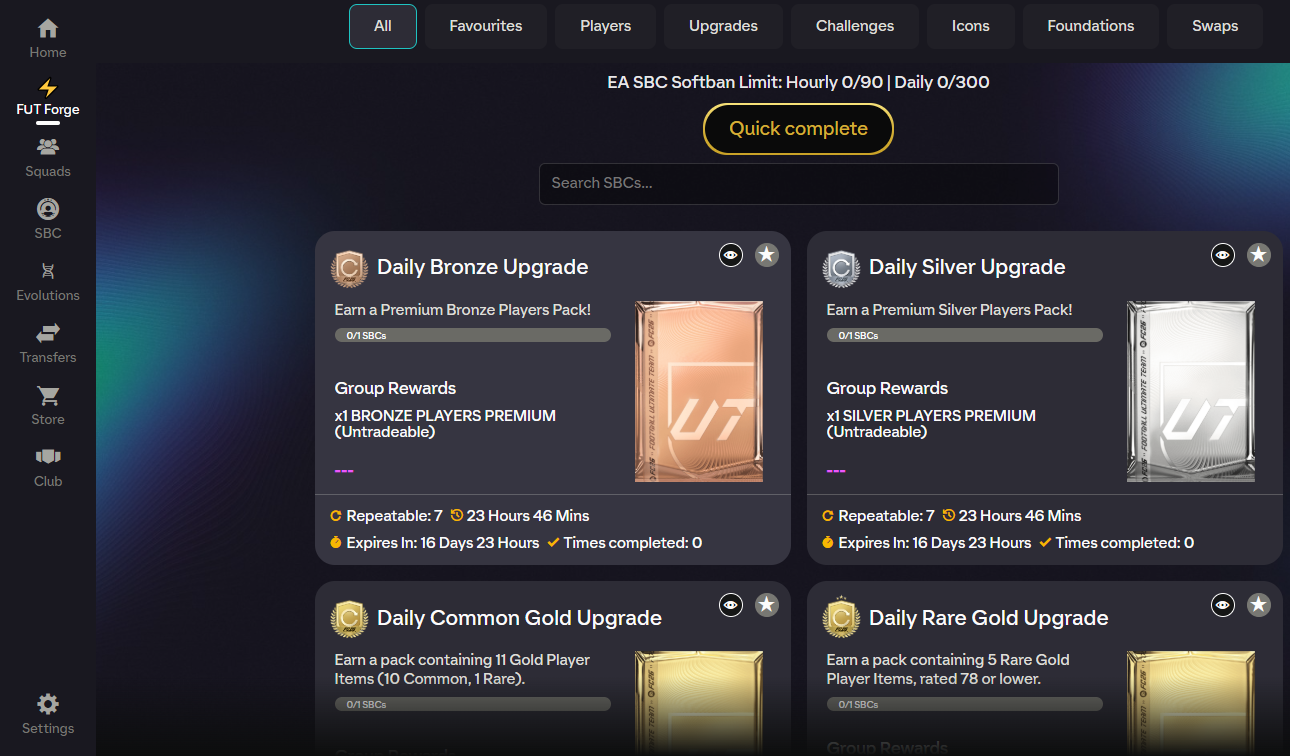
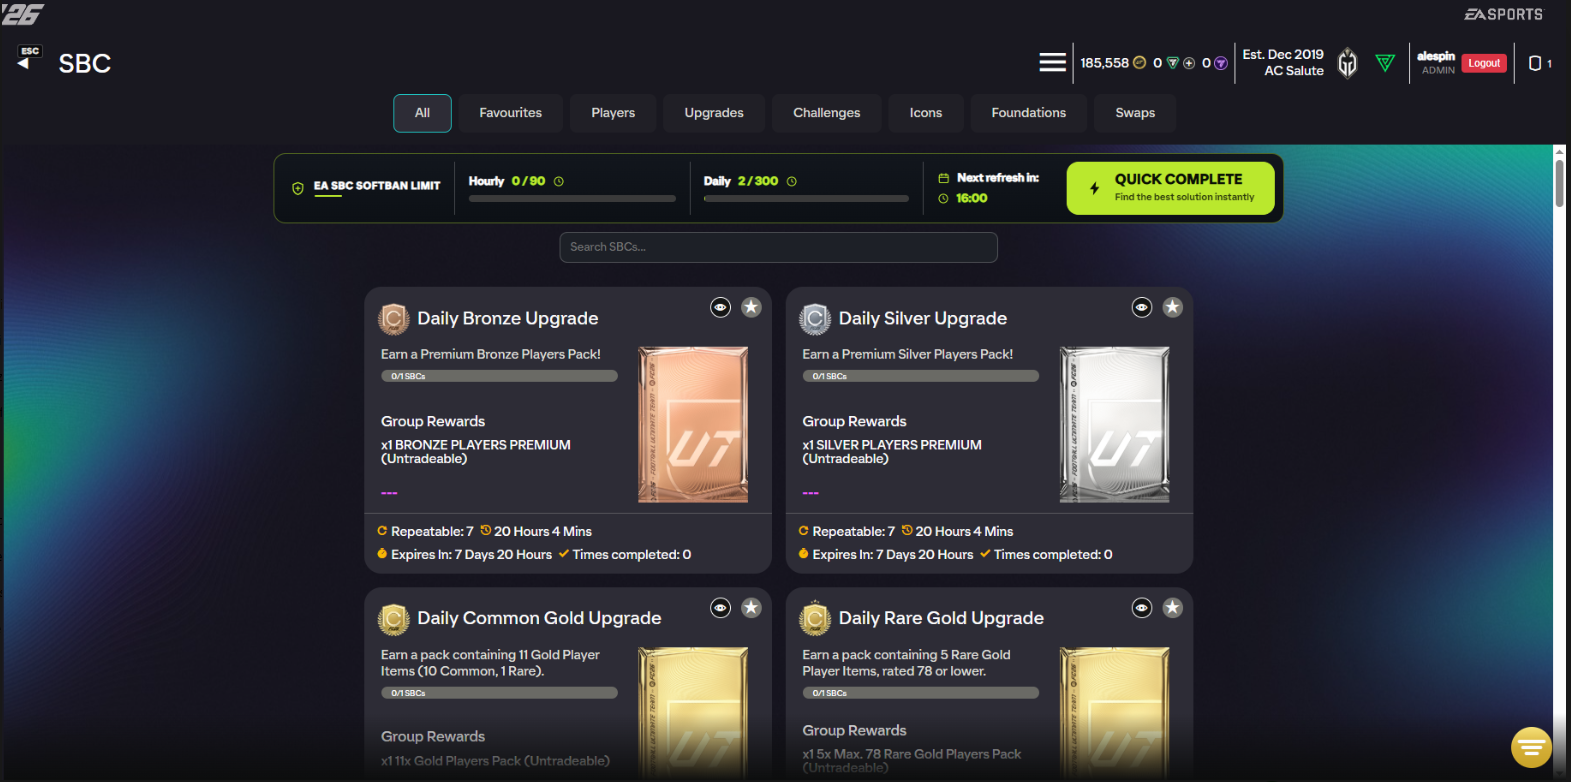
chore(site): update SBC Solver screenshot to the new FUT Forge UI
Replace the SBC Solver screenshot (homepage "01 / SBC Solver" story and
the download page preview) with the new capture showing the FUT Forge
softban-limit/Quick Complete toolbar. Corrected the declared Image
width/height in both call sites to the asset's real dimensions
(1571x782) so it renders without distortion or cropping. No layout,
copy, or other section changes.

diff --git a/src/components/download-page.tsx b/src/components/download-page.tsx
@@ -69,7 +69,7 @@ export function DownloadPageContent({ releases }: { releases: ReleaseCatalog }) 
 
     <section className="download-grid section-shell"><article><p className="section-label">01</p><h2>{d.whatsNew}</h2><ul>{notes.map((note) => <li key={note}>{note}</li>)}</ul></article><article><p className="section-label">02</p><h2>{d.requirements}</h2><ul>{d.requirementItems.map((item) => <li key={item}>{item}</li>)}</ul></article></section>
     <section className="install-section section-shell"><div><p className="section-label">03</p><h2>{d.installation}</h2><ol>{d.installSteps.map((step) => <li key={step}>{step}</li>)}</ol></div><div><p className="section-label">04</p><h2>{d.security}</h2><ul>{d.securityItems.map((item) => <li key={item}>{item}</li>)}</ul></div></section>
-    <section className="preview-section section-shell"><div><p className="section-label">05 · {d.preview}</p><h2>{d.previewBody}</h2></div><Image src="/screenshots/sbc-solver.png" alt={d.previewAlt} width={1600} height={900} sizes="(max-width: 900px) 92vw, 60vw" loading="lazy" /></section>
+    <section className="preview-section section-shell"><div><p className="section-label">05 · {d.preview}</p><h2>{d.previewBody}</h2></div><Image src="/screenshots/sbc-solver.png" alt={d.previewAlt} width={1571} height={782} sizes="(max-width: 900px) 92vw, 60vw" loading="lazy" /></section>
     <section className="faq-section section-shell"><p className="section-label">06</p><h2>{d.faq}</h2><div>{d.faqs.map(([question, answer]) => <details key={question}><summary>{question}<span aria-hidden>+</span></summary><p>{answer}</p></details>)}</div></section>
     <section className="final-download section-shell"><div><h2>{d.finalTitle}</h2><p>{d.finalBody}</p><DownloadButton release={release} label={release.downloadUrl ? d.download : d.unavailable} /></div></section>
   </>;

diff --git a/src/components/features.tsx b/src/components/features.tsx
@@ -5,7 +5,7 @@ import { SparkIcon } from "./icons";
 import { useI18n } from "./i18n-provider";
 
 const captures = [
-  { src: "/screenshots/sbc-solver.png", width: 1290, height: 756 },
+  { src: "/screenshots/sbc-solver.png", width: 1571, height: 782 },
   { src: "/screenshots/evolutions.png", width: 1456, height: 792 },
 ] as const;
 
